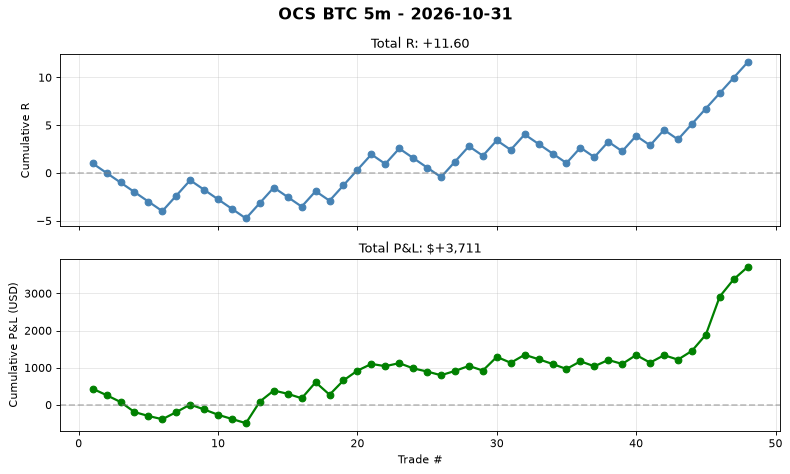
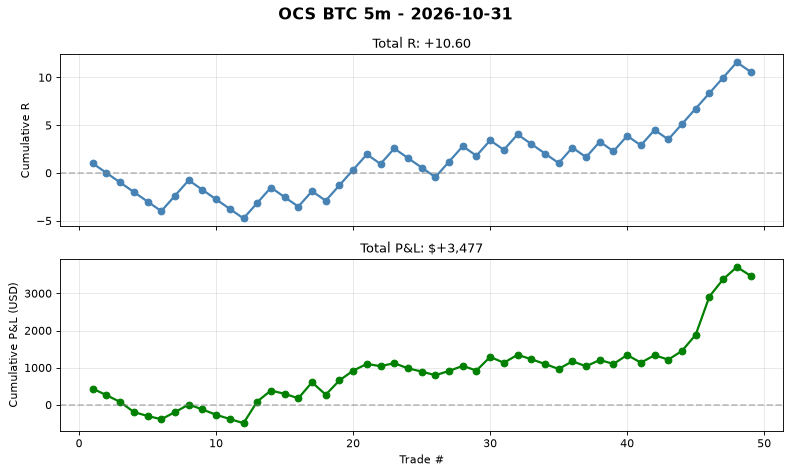
auto(ocs-btc): signal log 2026-10-30T20:04 trades=49

diff --git a/automation/reports/ocs_btc_5m/daily/2026-10-31.md b/automation/reports/ocs_btc_5m/daily/2026-10-31.md
@@ -2,4 +2,4 @@
 
 **No trades today.**
 
-Cumulative stats: 48 trades | WR 47.9% | avg R 0.242
+Cumulative stats: 49 trades | WR 46.9% | avg R 0.216
